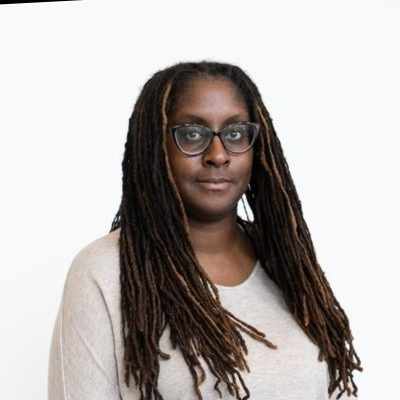
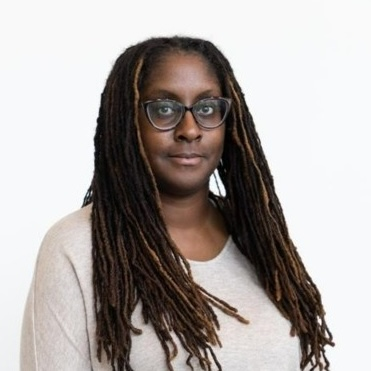
Added images to projects page. Resized images

diff --git a/src/app/projects/page.tsx b/src/app/projects/page.tsx
@@ -1,10 +1,45 @@
 import React from 'react';
+import Image from 'next/image';
 
 const ProjectsPage = () => {
     return (
         <main>
             <h1>My Projects</h1>
-            <p>A Projects page. Include details (text and images) of at least three of your favourite projects. </p>
+            <ul className="project">
+                <li>
+                    <h3>Smoothie machine</h3>
+                    <p>For this project, I developed a web-based smoothie ordering interface using HTML, CSS, and JavaScript. The application has form that allows users to select ingredients and preferences for their smoothie. When they submit their order, an object-oriented JavaScript class generates a smoothie object and dynamically displays the order summary on the page.</p>
+                    <p>This assignment demonstrates my ability to apply front-end development principles and object-oriented programming.</p>
+                    <Image
+                        className="project-image"
+                        src="/smoothie-machine.png"
+                        alt="screenshot of the smoothie machine web-app"
+                        width={500}
+                        height={412} />
+                </li>
+                <li>
+                    <h3>Pokedex Web App</h3>
+                    <Image
+                        className="project-image"
+                        src="/pokemon-card.png"
+                        alt="screenshot of a pokedex web app"
+                        width={500}
+                        height={349} />
+                    <p>This project is a dynamic Pokédex built with HTML, CSS, and JavaScript, powered by the Pokémon API. Users can choose a Pokémon image, and the app responds by displaying its name, ID, species, and a short AI-generated description.</p>
+                    <p>This project demonstrates my ability to integrate external APIs and manage asynchronous data.</p>
+                </li>
+                <li>
+                    <h3>User Persona</h3>
+                    <p>I created a user persona in Figma for an adult woman seeking tech to monitor her children&apos;s online activity. The profile includes her profession, income, comfort with technology, a personal quote, and visuals of devices she uses. She values simplicity, privacy, and reliability.</p>
+                    <p>This project demonstrates my ability to apply user-centered design and build personas that inform thoughtful, real-world solutions.</p>
+                    <Image
+                        className="project-image"
+                        src="/parent-user.jpg"
+                        alt="sample persona"
+                        width={500}
+                        height={325} />
+                </li>
+            </ul>
         </main>
     );
 };

diff --git a/src/app/globals.css b/src/app/globals.css
@@ -25,6 +25,12 @@ body {
   color: var(--foreground);
   font-family: Arial, Helvetica, sans-serif;
 }
+body {
+  min-height: 100vh;
+  margin: 0;
+  display: grid;
+  grid-template-rows: auto 1fr auto;
+}
 
 main {
   padding: 25px;
@@ -32,6 +38,24 @@ main {
 
 .container {
   display: flex;
+  flex-direction: row;
+  flex-wrap: wrap;
+  justify-content: space-evenly;
+  align-items: baseline;
+  text-align: center;
+}
+
+.project-image {
+  padding: 0.5rem;
+  width: 500px;
+  height: autox;
+}
+
+.project {
+  display: grid;
+}
+.project >li {
+  grid-area: 1fr;
 }
 
 /* Typography */
@@ -46,6 +70,7 @@ h3 {
   font-weight: bold;
   margin-bottom: 5px;
   font-size: large;
+  margin-top: 1em;
 }
 
 .brand {
@@ -82,8 +107,6 @@ nav {
   display: flex;
   justify-content: center;
   padding: 0.5rem;
-  position: absolute;
-  bottom: 0;
   width: 100%;
 }
 

diff --git a/src/app/bio/page.tsx b/src/app/bio/page.tsx
@@ -8,8 +8,8 @@ const BioPage = () => {
                 src="/portfolio-photo.jpeg"
                 alt="Photo of Tineil"
                 className="photo"
-                width={400}
-                height={400}/>
+                width={371}
+                height={371}/>
             <h1>About Me</h1>
             <p>I&apos;m a student webdeveloper currently studying Interactive Media Design at Georgian College. I&apos;m passionate about building dynamic, user-centred web experiences that blend clean code with thoughtful design.</p>
             <h2>Mission</h2>

diff --git a/src/app/skills/page.tsx b/src/app/skills/page.tsx
@@ -4,8 +4,8 @@ import Image from 'next/image';
 const SkillsPage = () => {
     return (
         <main>
-            <h1>My Skills</h1>
-            <ul>
+            <h1 className="container content-center">My Skills</h1>
+            <ul className="container">
                 <li>
                     <Image
                         src="/html.svg"